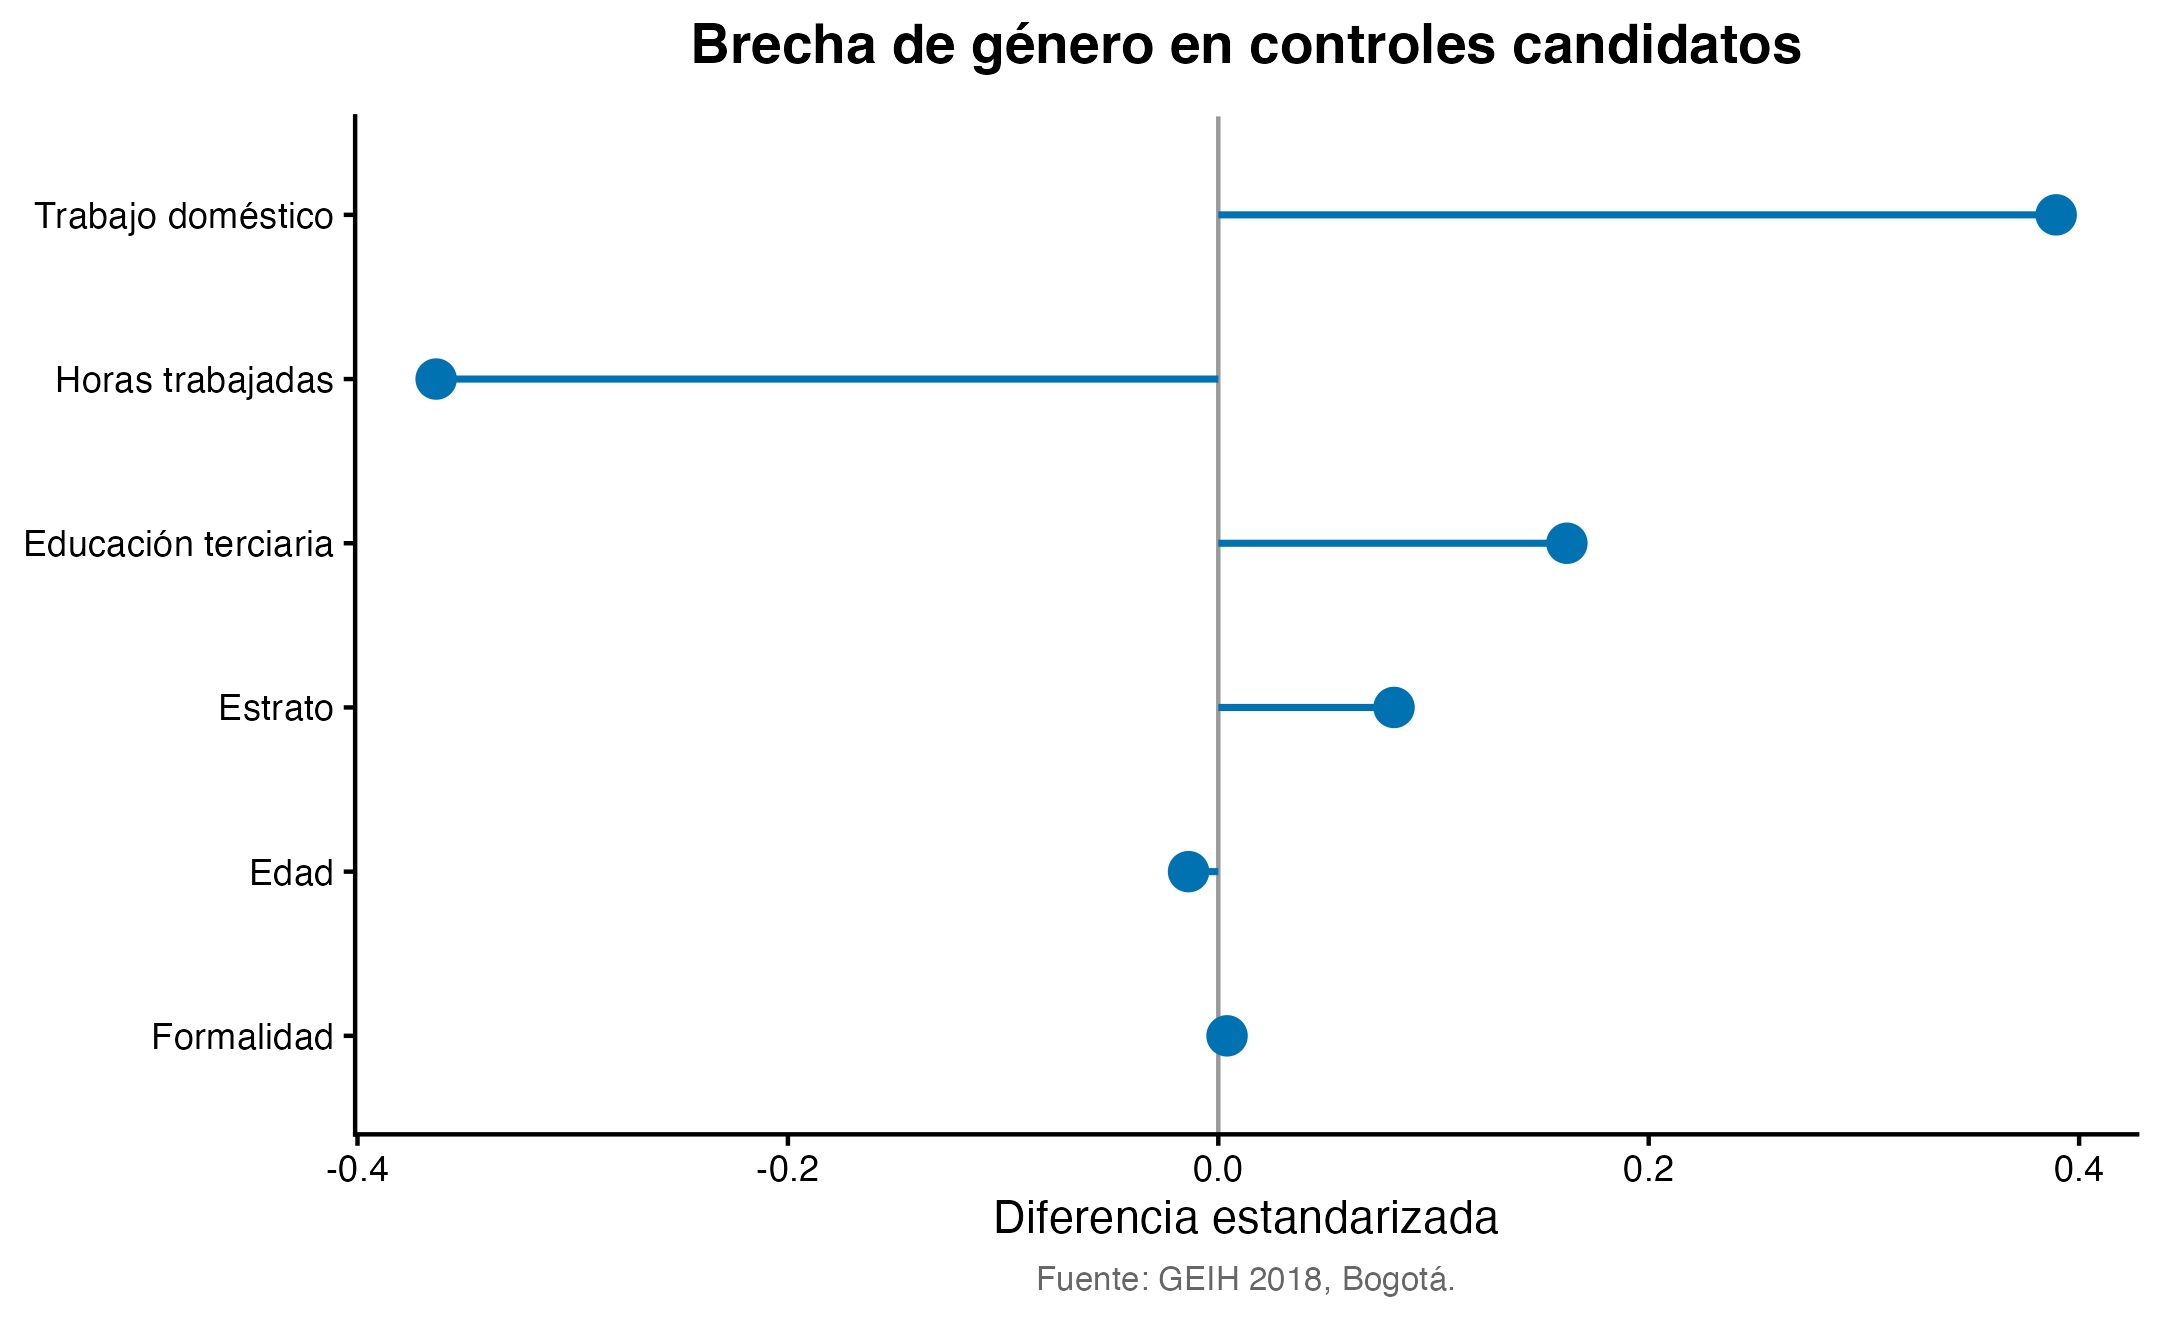
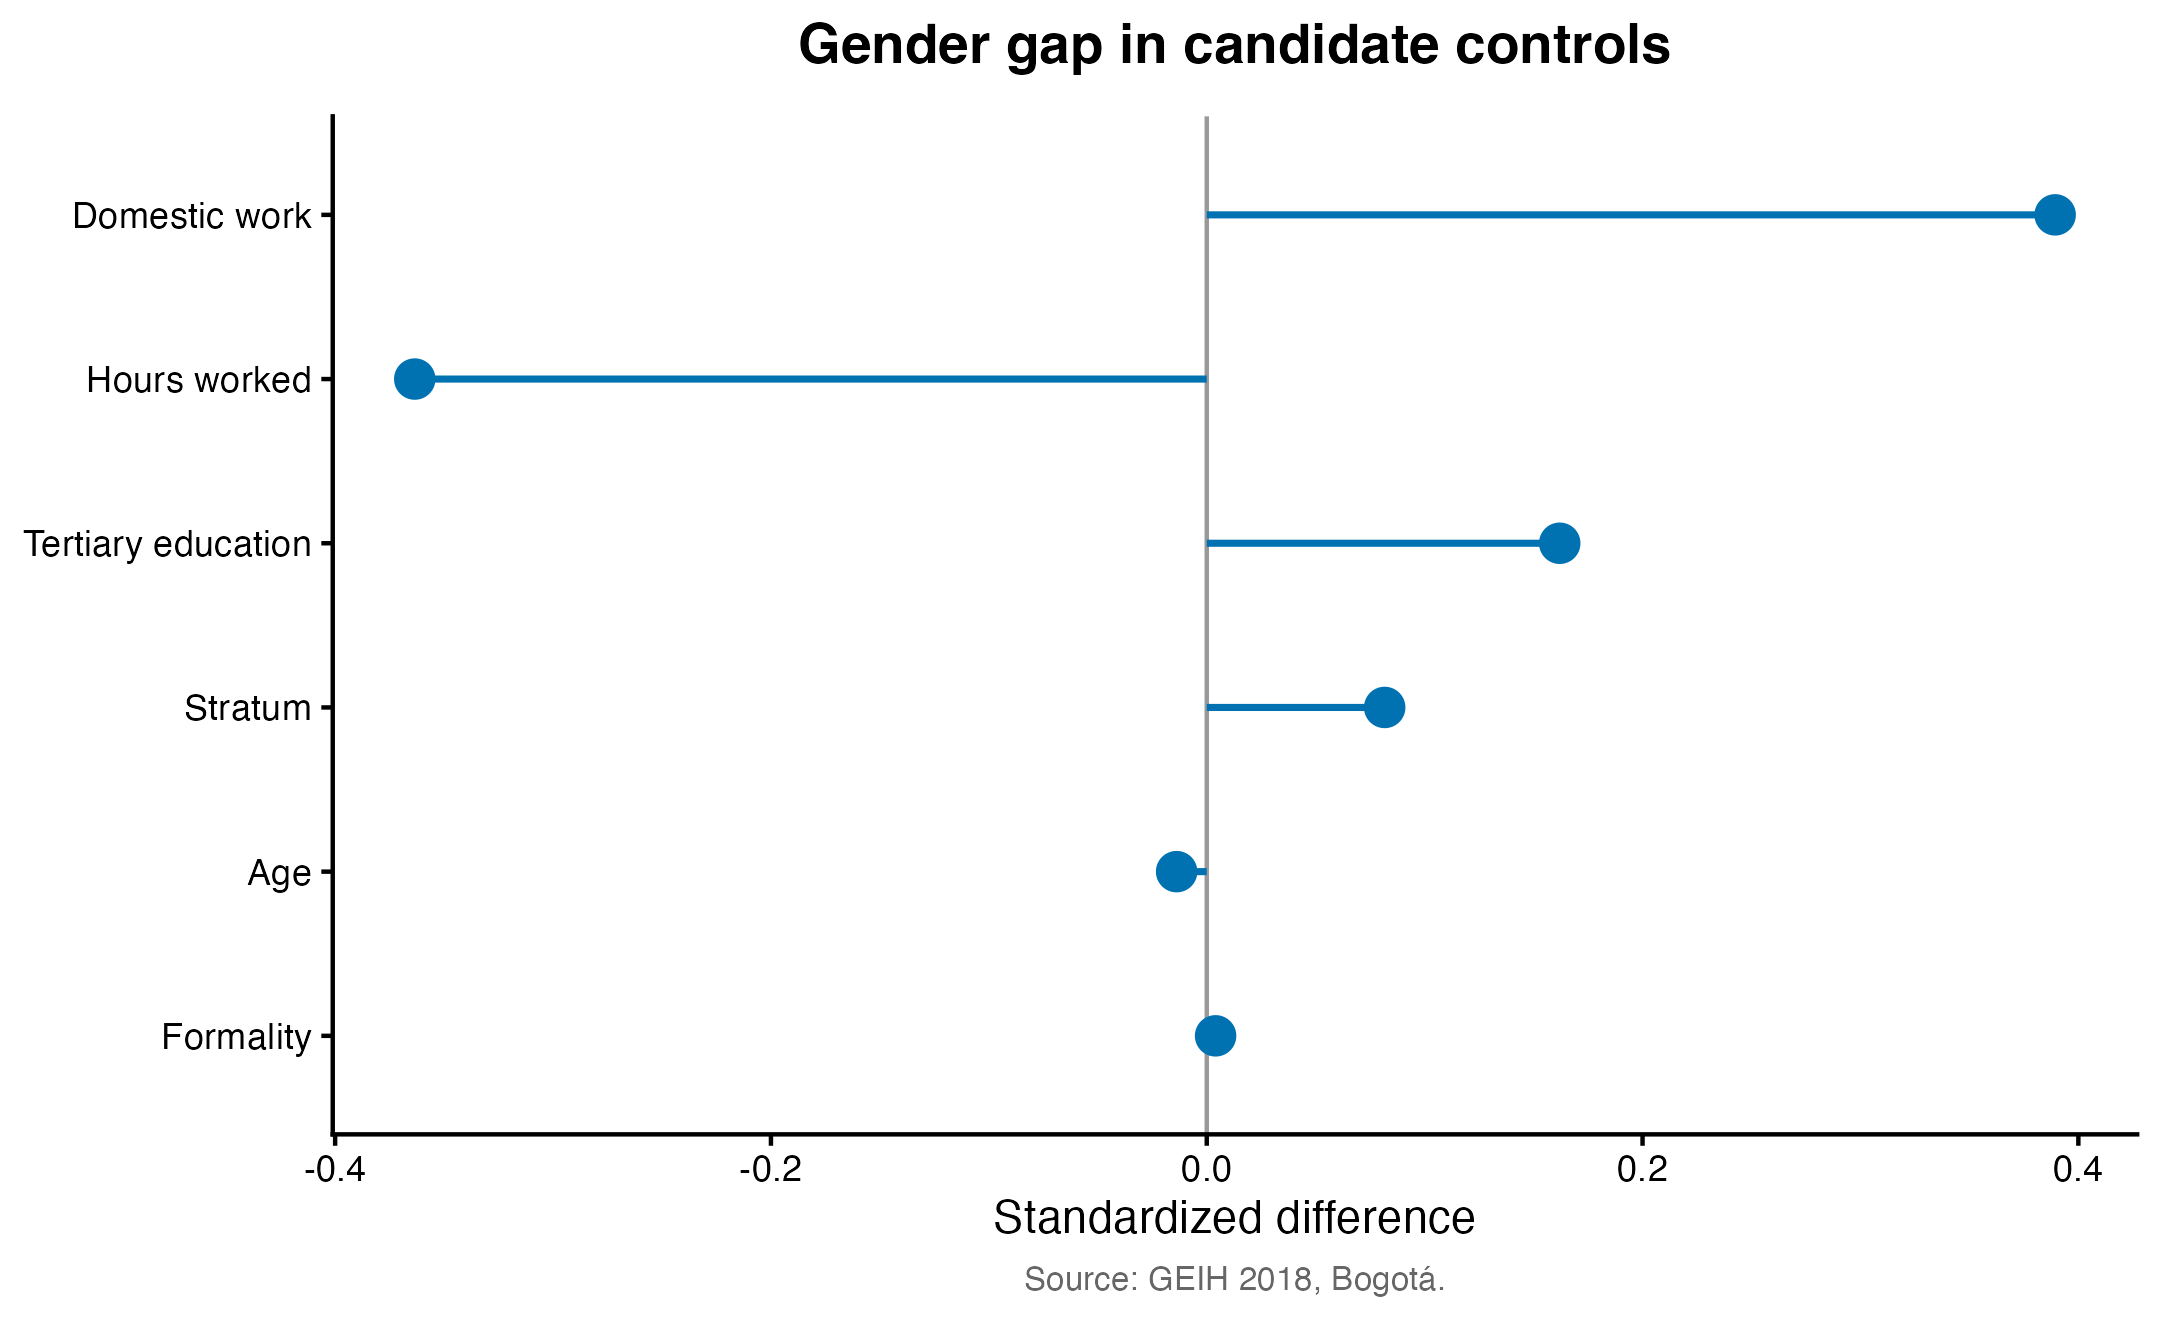
Nueva actualización tablas y figuras a ingles

diff --git a/02_outputs/tables/tab_gender_gap.tex b/02_outputs/tables/tab_gender_gap.tex
@@ -2,11 +2,11 @@
 \toprule
 Specification & Female coef. & Analytical SE & Bootstrap SE & Gap (\%) & R$^2$ & N \\
 \midrule
-M1: Incondicional & -0.238 & 0.015 & 0.015 & -21.2 & 0.018 & 14,761 \\
-M2: + Edad & -0.257 & 0.014 & 0.015 & -22.7 & 0.070 & 14,761 \\
-M3: + Estrato & -0.287 & 0.013 & 0.013 & -24.9 & 0.267 & 14,761 \\
-M4: + Educación & -0.320 & 0.012 & 0.013 & -27.4 & 0.346 & 14,761 \\
-M5: + Formalidad & -0.301 & 0.011 & 0.012 & -26.0 & 0.445 & 14,761 \\
-M6: + Horas/Ocupación (preferida) & -0.199 & 0.011 & 0.011 & -18.1 & 0.535 & 14,761 \\
+M1: Unconditional & -0.238 & 0.015 & 0.015 & -21.2 & 0.018 & 14,761 \\
+M2: + Age & -0.257 & 0.014 & 0.015 & -22.7 & 0.070 & 14,761 \\
+M3: + Stratum & -0.287 & 0.013 & 0.013 & -24.9 & 0.267 & 14,761 \\
+M4: + Education & -0.320 & 0.012 & 0.013 & -27.4 & 0.346 & 14,761 \\
+M5: + Formality & -0.301 & 0.011 & 0.012 & -26.0 & 0.445 & 14,761 \\
+M6: + Hours/Occupation (preferred) & -0.199 & 0.011 & 0.011 & -18.1 & 0.535 & 14,761 \\
 \bottomrule
 \end{tabular}
